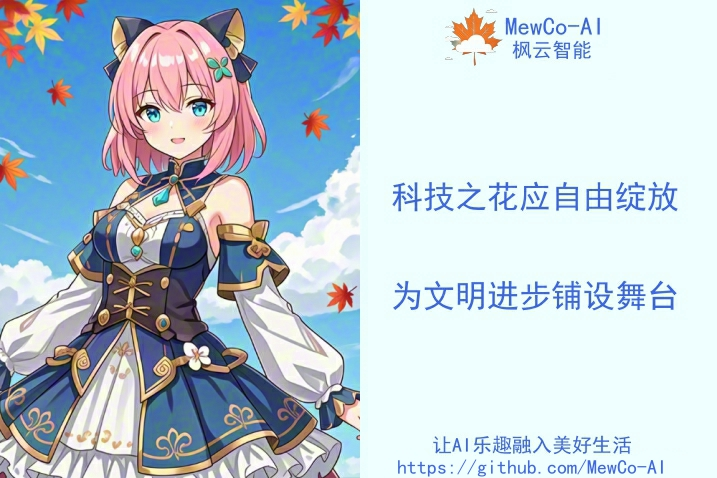
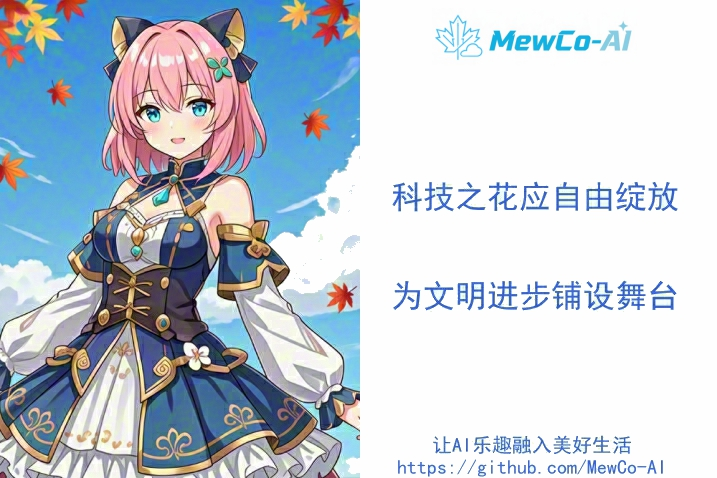
Add files via upload

diff --git a/2024/03/13/engine/index.html b/2024/03/13/engine/index.html
@@ -44,8 +44,7 @@
 <header class="site-header" data-header>
   <div class="container nav-wrap">
     <a class="brand" href="../../../../index.html" aria-label="MewCo-AI 首页">
-  <span class="brand-mark" aria-hidden="true">🍁</span>
-  <span class="brand-text"><strong>MewCo-AI</strong></span>
+  <img class="brand-logo" src="../../../../images/icons/mewcologo.png" alt="MewCo-AI" style="height: 36px; width: auto;">
 </a>
     <nav class="site-nav" id="site-nav" data-nav aria-label="主导航">
       <a class="nav-link" href="../../../../index.html">首页</a><a class="nav-link is-active" href="../../../../categories/index.html" aria-current="page">项目一览</a><a class="nav-link" href="../../../../tutorial/use_tutorial/index.html">使用教程</a><a class="nav-link" href="../../../../tutorial/dev_tutorial/index.html">开发教程</a><a class="nav-link" href="../../../../about/index.html">关于我们</a>
@@ -246,8 +245,7 @@
     <div class="footer-top">
       <div class="footer-brand">
         <a class="brand" href="../../../../index.html" aria-label="MewCo-AI 首页">
-  <span class="brand-mark" aria-hidden="true">🍁</span>
-  <span class="brand-text"><strong>MewCo-AI</strong></span>
+  <img class="brand-logo" src="../../../../images/icons/mewcologo.png" alt="MewCo-AI" style="height: 36px; width: auto;">
 </a>
         <p>MewCo-AI（枫云智能）是一支热爱科技与二次元文化的年轻团队，专注开源 AI 助手的公益探索，让每个人都能拥有属于自己的全能型 AI 助手。</p>
       </div>

diff --git a/2024/07/09/asstcomm/index.html b/2024/07/09/asstcomm/index.html
@@ -44,8 +44,7 @@
 <header class="site-header" data-header>
   <div class="container nav-wrap">
     <a class="brand" href="../../../../index.html" aria-label="MewCo-AI 首页">
-  <span class="brand-mark" aria-hidden="true">🍁</span>
-  <span class="brand-text"><strong>MewCo-AI</strong></span>
+  <img class="brand-logo" src="../../../../images/icons/mewcologo.png" alt="MewCo-AI" style="height: 36px; width: auto;">
 </a>
     <nav class="site-nav" id="site-nav" data-nav aria-label="主导航">
       <a class="nav-link" href="../../../../index.html">首页</a><a class="nav-link is-active" href="../../../../categories/index.html" aria-current="page">项目一览</a><a class="nav-link" href="../../../../tutorial/use_tutorial/index.html">使用教程</a><a class="nav-link" href="../../../../tutorial/dev_tutorial/index.html">开发教程</a><a class="nav-link" href="../../../../about/index.html">关于我们</a>
@@ -160,8 +159,7 @@
     <div class="footer-top">
       <div class="footer-brand">
         <a class="brand" href="../../../../index.html" aria-label="MewCo-AI 首页">
-  <span class="brand-mark" aria-hidden="true">🍁</span>
-  <span class="brand-text"><strong>MewCo-AI</strong></span>
+  <img class="brand-logo" src="../../../../images/icons/mewcologo.png" alt="MewCo-AI" style="height: 36px; width: auto;">
 </a>
         <p>MewCo-AI（枫云智能）是一支热爱科技与二次元文化的年轻团队，专注开源 AI 助手的公益探索，让每个人都能拥有属于自己的全能型 AI 助手。</p>
       </div>

diff --git a/2024/09/12/mateexp/index.html b/2024/09/12/mateexp/index.html
@@ -44,8 +44,7 @@
 <header class="site-header" data-header>
   <div class="container nav-wrap">
     <a class="brand" href="../../../../index.html" aria-label="MewCo-AI 首页">
-  <span class="brand-mark" aria-hidden="true">🍁</span>
-  <span class="brand-text"><strong>MewCo-AI</strong></span>
+  <img class="brand-logo" src="../../../../images/icons/mewcologo.png" alt="MewCo-AI" style="height: 36px; width: auto;">
 </a>
     <nav class="site-nav" id="site-nav" data-nav aria-label="主导航">
       <a class="nav-link" href="../../../../index.html">首页</a><a class="nav-link is-active" href="../../../../categories/index.html" aria-current="page">项目一览</a><a class="nav-link" href="../../../../tutorial/use_tutorial/index.html">使用教程</a><a class="nav-link" href="../../../../tutorial/dev_tutorial/index.html">开发教程</a><a class="nav-link" href="../../../../about/index.html">关于我们</a>
@@ -148,8 +147,7 @@
     <div class="footer-top">
       <div class="footer-brand">
         <a class="brand" href="../../../../index.html" aria-label="MewCo-AI 首页">
-  <span class="brand-mark" aria-hidden="true">🍁</span>
-  <span class="brand-text"><strong>MewCo-AI</strong></span>
+  <img class="brand-logo" src="../../../../images/icons/mewcologo.png" alt="MewCo-AI" style="height: 36px; width: auto;">
 </a>
         <p>MewCo-AI（枫云智能）是一支热爱科技与二次元文化的年轻团队，专注开源 AI 助手的公益探索，让每个人都能拥有属于自己的全能型 AI 助手。</p>
       </div>

diff --git a/2025/05/17/asstlinux/index.html b/2025/05/17/asstlinux/index.html
@@ -44,8 +44,7 @@
 <header class="site-header" data-header>
   <div class="container nav-wrap">
     <a class="brand" href="../../../../index.html" aria-label="MewCo-AI 首页">
-  <span class="brand-mark" aria-hidden="true">🍁</span>
-  <span class="brand-text"><strong>MewCo-AI</strong></span>
+  <img class="brand-logo" src="../../../../images/icons/mewcologo.png" alt="MewCo-AI" style="height: 36px; width: auto;">
 </a>
     <nav class="site-nav" id="site-nav" data-nav aria-label="主导航">
       <a class="nav-link" href="../../../../index.html">首页</a><a class="nav-link is-active" href="../../../../categories/index.html" aria-current="page">项目一览</a><a class="nav-link" href="../../../../tutorial/use_tutorial/index.html">使用教程</a><a class="nav-link" href="../../../../tutorial/dev_tutorial/index.html">开发教程</a><a class="nav-link" href="../../../../about/index.html">关于我们</a>
@@ -160,8 +159,7 @@
     <div class="footer-top">
       <div class="footer-brand">
         <a class="brand" href="../../../../index.html" aria-label="MewCo-AI 首页">
-  <span class="brand-mark" aria-hidden="true">🍁</span>
-  <span class="brand-text"><strong>MewCo-AI</strong></span>
+  <img class="brand-logo" src="../../../../images/icons/mewcologo.png" alt="MewCo-AI" style="height: 36px; width: auto;">
 </a>
         <p>MewCo-AI（枫云智能）是一支热爱科技与二次元文化的年轻团队，专注开源 AI 助手的公益探索，让每个人都能拥有属于自己的全能型 AI 助手。</p>
       </div>

diff --git a/2025/10/07/use_tutorial/index.html b/2025/10/07/use_tutorial/index.html
@@ -44,8 +44,7 @@
 <header class="site-header" data-header>
   <div class="container nav-wrap">
     <a class="brand" href="../../../../index.html" aria-label="MewCo-AI 首页">
-  <span class="brand-mark" aria-hidden="true">🍁</span>
-  <span class="brand-text"><strong>MewCo-AI</strong></span>
+  <img class="brand-logo" src="../../../../images/icons/mewcologo.png" alt="MewCo-AI" style="height: 36px; width: auto;">
 </a>
     <nav class="site-nav" id="site-nav" data-nav aria-label="主导航">
       <a class="nav-link" href="../../../../index.html">首页</a><a class="nav-link" href="../../../../categories/index.html">项目一览</a><a class="nav-link is-active" href="../../../../tutorial/use_tutorial/index.html" aria-current="page">使用教程</a><a class="nav-link" href="../../../../tutorial/dev_tutorial/index.html">开发教程</a><a class="nav-link" href="../../../../about/index.html">关于我们</a>
@@ -202,8 +201,7 @@
     <div class="footer-top">
       <div class="footer-brand">
         <a class="brand" href="../../../../index.html" aria-label="MewCo-AI 首页">
-  <span class="brand-mark" aria-hidden="true">🍁</span>
-  <span class="brand-text"><strong>MewCo-AI</strong></span>
+  <img class="brand-logo" src="../../../../images/icons/mewcologo.png" alt="MewCo-AI" style="height: 36px; width: auto;">
 </a>
         <p>MewCo-AI（枫云智能）是一支热爱科技与二次元文化的年轻团队，专注开源 AI 助手的公益探索，让每个人都能拥有属于自己的全能型 AI 助手。</p>
       </div>

diff --git a/2025/12/06/dev_tutorial/index.html b/2025/12/06/dev_tutorial/index.html
@@ -44,8 +44,7 @@
 <header class="site-header" data-header>
   <div class="container nav-wrap">
     <a class="brand" href="../../../../index.html" aria-label="MewCo-AI 首页">
-  <span class="brand-mark" aria-hidden="true">🍁</span>
-  <span class="brand-text"><strong>MewCo-AI</strong></span>
+  <img class="brand-logo" src="../../../../images/icons/mewcologo.png" alt="MewCo-AI" style="height: 36px; width: auto;">
 </a>
     <nav class="site-nav" id="site-nav" data-nav aria-label="主导航">
       <a class="nav-link" href="../../../../index.html">首页</a><a class="nav-link" href="../../../../categories/index.html">项目一览</a><a class="nav-link" href="../../../../tutorial/use_tutorial/index.html">使用教程</a><a class="nav-link is-active" href="../../../../tutorial/dev_tutorial/index.html" aria-current="page">开发教程</a><a class="nav-link" href="../../../../about/index.html">关于我们</a>
@@ -205,8 +204,7 @@
     <div class="footer-top">
       <div class="footer-brand">
         <a class="brand" href="../../../../index.html" aria-label="MewCo-AI 首页">
-  <span class="brand-mark" aria-hidden="true">🍁</span>
-  <span class="brand-text"><strong>MewCo-AI</strong></span>
+  <img class="brand-logo" src="../../../../images/icons/mewcologo.png" alt="MewCo-AI" style="height: 36px; width: auto;">
 </a>
         <p>MewCo-AI（枫云智能）是一支热爱科技与二次元文化的年轻团队，专注开源 AI 助手的公益探索，让每个人都能拥有属于自己的全能型 AI 助手。</p>
       </div>

diff --git a/project/asstcomm/index.html b/project/asstcomm/index.html
@@ -44,8 +44,7 @@
 <header class="site-header" data-header>
   <div class="container nav-wrap">
     <a class="brand" href="../../index.html" aria-label="MewCo-AI 首页">
-  <span class="brand-mark" aria-hidden="true">🍁</span>
-  <span class="brand-text"><strong>MewCo-AI</strong></span>
+  <img class="brand-logo" src="../../images/icons/mewcologo.png" alt="MewCo-AI" style="height: 36px; width: auto;">
 </a>
     <nav class="site-nav" id="site-nav" data-nav aria-label="主导航">
       <a class="nav-link" href="../../index.html">首页</a><a class="nav-link is-active" href="../../categories/index.html" aria-current="page">项目一览</a><a class="nav-link" href="../../tutorial/use_tutorial/index.html">使用教程</a><a class="nav-link" href="../../tutorial/dev_tutorial/index.html">开发教程</a><a class="nav-link" href="../../about/index.html">关于我们</a>
@@ -160,8 +159,7 @@
     <div class="footer-top">
       <div class="footer-brand">
         <a class="brand" href="../../index.html" aria-label="MewCo-AI 首页">
-  <span class="brand-mark" aria-hidden="true">🍁</span>
-  <span class="brand-text"><strong>MewCo-AI</strong></span>
+  <img class="brand-logo" src="../../images/icons/mewcologo.png" alt="MewCo-AI" style="height: 36px; width: auto;">
 </a>
         <p>MewCo-AI（枫云智能）是一支热爱科技与二次元文化的年轻团队，专注开源 AI 助手的公益探索，让每个人都能拥有属于自己的全能型 AI 助手。</p>
       </div>

diff --git a/project/asstlinux/index.html b/project/asstlinux/index.html
@@ -44,8 +44,7 @@
 <header class="site-header" data-header>
   <div class="container nav-wrap">
     <a class="brand" href="../../index.html" aria-label="MewCo-AI 首页">
-  <span class="brand-mark" aria-hidden="true">🍁</span>
-  <span class="brand-text"><strong>MewCo-AI</strong></span>
+  <img class="brand-logo" src="../../images/icons/mewcologo.png" alt="MewCo-AI" style="height: 36px; width: auto;">
 </a>
     <nav class="site-nav" id="site-nav" data-nav aria-label="主导航">
       <a class="nav-link" href="../../index.html">首页</a><a class="nav-link is-active" href="../../categories/index.html" aria-current="page">项目一览</a><a class="nav-link" href="../../tutorial/use_tutorial/index.html">使用教程</a><a class="nav-link" href="../../tutorial/dev_tutorial/index.html">开发教程</a><a class="nav-link" href="../../about/index.html">关于我们</a>
@@ -160,8 +159,7 @@
     <div class="footer-top">
       <div class="footer-brand">
         <a class="brand" href="../../index.html" aria-label="MewCo-AI 首页">
-  <span class="brand-mark" aria-hidden="true">🍁</span>
-  <span class="brand-text"><strong>MewCo-AI</strong></span>
+  <img class="brand-logo" src="../../images/icons/mewcologo.png" alt="MewCo-AI" style="height: 36px; width: auto;">
 </a>
         <p>MewCo-AI（枫云智能）是一支热爱科技与二次元文化的年轻团队，专注开源 AI 助手的公益探索，让每个人都能拥有属于自己的全能型 AI 助手。</p>
       </div>

diff --git a/tutorial/dev_tutorial/index.html b/tutorial/dev_tutorial/index.html
@@ -44,8 +44,7 @@
 <header class="site-header" data-header>
   <div class="container nav-wrap">
     <a class="brand" href="../../index.html" aria-label="MewCo-AI 首页">
-  <span class="brand-mark" aria-hidden="true">🍁</span>
-  <span class="brand-text"><strong>MewCo-AI</strong></span>
+  <img class="brand-logo" src="../../images/icons/mewcologo.png" alt="MewCo-AI" style="height: 36px; width: auto;">
 </a>
     <nav class="site-nav" id="site-nav" data-nav aria-label="主导航">
       <a class="nav-link" href="../../index.html">首页</a><a class="nav-link" href="../../categories/index.html">项目一览</a><a class="nav-link" href="../../tutorial/use_tutorial/index.html">使用教程</a><a class="nav-link is-active" href="../../tutorial/dev_tutorial/index.html" aria-current="page">开发教程</a><a class="nav-link" href="../../about/index.html">关于我们</a>
@@ -205,8 +204,7 @@
     <div class="footer-top">
       <div class="footer-brand">
         <a class="brand" href="../../index.html" aria-label="MewCo-AI 首页">
-  <span class="brand-mark" aria-hidden="true">🍁</span>
-  <span class="brand-text"><strong>MewCo-AI</strong></span>
+  <img class="brand-logo" src="../../images/icons/mewcologo.png" alt="MewCo-AI" style="height: 36px; width: auto;">
 </a>
         <p>MewCo-AI（枫云智能）是一支热爱科技与二次元文化的年轻团队，专注开源 AI 助手的公益探索，让每个人都能拥有属于自己的全能型 AI 助手。</p>
       </div>

diff --git a/tutorial/engine/index.html b/tutorial/engine/index.html
@@ -44,8 +44,7 @@
 <header class="site-header" data-header>
   <div class="container nav-wrap">
     <a class="brand" href="../../index.html" aria-label="MewCo-AI 首页">
-  <span class="brand-mark" aria-hidden="true">🍁</span>
-  <span class="brand-text"><strong>MewCo-AI</strong></span>
+  <img class="brand-logo" src="../../images/icons/mewcologo.png" alt="MewCo-AI" style="height: 36px; width: auto;">
 </a>
     <nav class="site-nav" id="site-nav" data-nav aria-label="主导航">
       <a class="nav-link" href="../../index.html">首页</a><a class="nav-link is-active" href="../../categories/index.html" aria-current="page">项目一览</a><a class="nav-link" href="../../tutorial/use_tutorial/index.html">使用教程</a><a class="nav-link" href="../../tutorial/dev_tutorial/index.html">开发教程</a><a class="nav-link" href="../../about/index.html">关于我们</a>
@@ -246,8 +245,7 @@
     <div class="footer-top">
       <div class="footer-brand">
         <a class="brand" href="../../index.html" aria-label="MewCo-AI 首页">
-  <span class="brand-mark" aria-hidden="true">🍁</span>
-  <span class="brand-text"><strong>MewCo-AI</strong></span>
+  <img class="brand-logo" src="../../images/icons/mewcologo.png" alt="MewCo-AI" style="height: 36px; width: auto;">
 </a>
         <p>MewCo-AI（枫云智能）是一支热爱科技与二次元文化的年轻团队，专注开源 AI 助手的公益探索，让每个人都能拥有属于自己的全能型 AI 助手。</p>
       </div>

diff --git a/tutorial/use_tutorial/index.html b/tutorial/use_tutorial/index.html
@@ -44,8 +44,7 @@
 <header class="site-header" data-header>
   <div class="container nav-wrap">
     <a class="brand" href="../../index.html" aria-label="MewCo-AI 首页">
-  <span class="brand-mark" aria-hidden="true">🍁</span>
-  <span class="brand-text"><strong>MewCo-AI</strong></span>
+  <img class="brand-logo" src="../../images/icons/mewcologo.png" alt="MewCo-AI" style="height: 36px; width: auto;">
 </a>
     <nav class="site-nav" id="site-nav" data-nav aria-label="主导航">
       <a class="nav-link" href="../../index.html">首页</a><a class="nav-link" href="../../categories/index.html">项目一览</a><a class="nav-link is-active" href="../../tutorial/use_tutorial/index.html" aria-current="page">使用教程</a><a class="nav-link" href="../../tutorial/dev_tutorial/index.html">开发教程</a><a class="nav-link" href="../../about/index.html">关于我们</a>
@@ -202,8 +201,7 @@
     <div class="footer-top">
       <div class="footer-brand">
         <a class="brand" href="../../index.html" aria-label="MewCo-AI 首页">
-  <span class="brand-mark" aria-hidden="true">🍁</span>
-  <span class="brand-text"><strong>MewCo-AI</strong></span>
+  <img class="brand-logo" src="../../images/icons/mewcologo.png" alt="MewCo-AI" style="height: 36px; width: auto;">
 </a>
         <p>MewCo-AI（枫云智能）是一支热爱科技与二次元文化的年轻团队，专注开源 AI 助手的公益探索，让每个人都能拥有属于自己的全能型 AI 助手。</p>
       </div>

diff --git a/index.html b/index.html
@@ -44,8 +44,7 @@
 <header class="site-header" data-header>
   <div class="container nav-wrap">
     <a class="brand" href="index.html" aria-label="MewCo-AI 首页">
-  <span class="brand-mark" aria-hidden="true">🍁</span>
-  <span class="brand-text"><strong>MewCo-AI</strong></span>
+  <img class="brand-logo" src="images/icons/mewcologo.png" alt="MewCo-AI" style="height: 36px; width: auto;">
 </a>
     <nav class="site-nav" id="site-nav" data-nav aria-label="主导航">
       <a class="nav-link is-active" href="index.html" aria-current="page">首页</a><a class="nav-link" href="categories/index.html">项目一览</a><a class="nav-link" href="tutorial/use_tutorial/index.html">使用教程</a><a class="nav-link" href="tutorial/dev_tutorial/index.html">开发教程</a><a class="nav-link" href="about/index.html">关于我们</a>
@@ -382,8 +381,7 @@
     <div class="footer-top">
       <div class="footer-brand">
         <a class="brand" href="index.html" aria-label="MewCo-AI 首页">
-  <span class="brand-mark" aria-hidden="true">🍁</span>
-  <span class="brand-text"><strong>MewCo-AI</strong><small>枫云智能工作室</small></span>
+<img class="brand-logo" src="images/icons/mewcologo.png" alt="MewCo-AI" style="height: 44px; width: auto;">
 </a>
         <p>MewCo-AI（枫云智能）是一支热爱科技与二次元文化的年轻团队，专注开源 AI 助手的公益探索，让每个人都能拥有属于自己的全能型 AI 助手。</p>
       </div>
